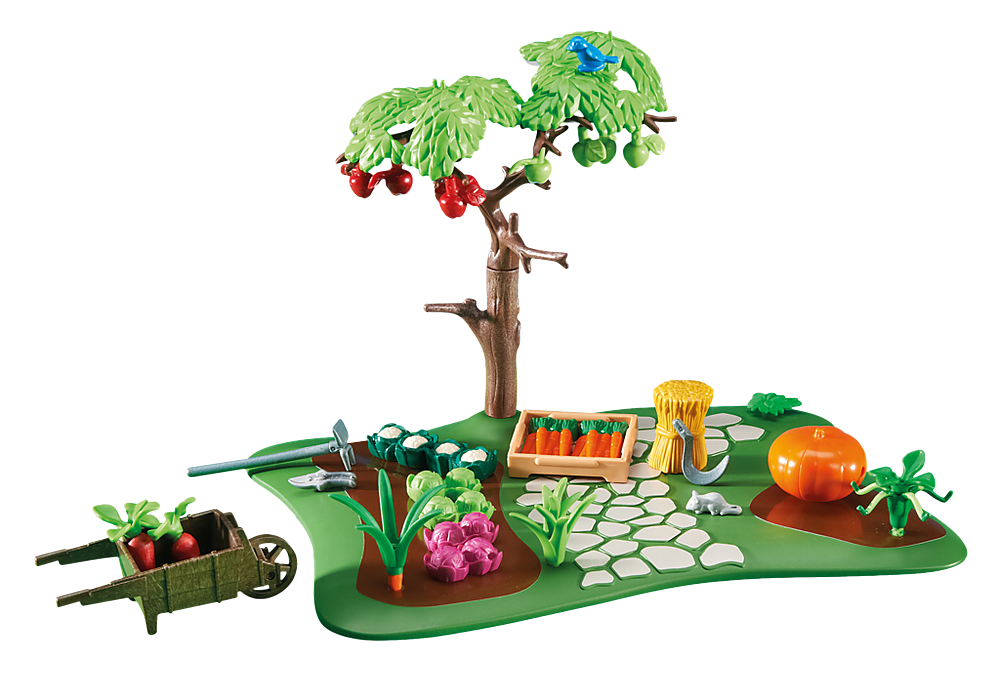
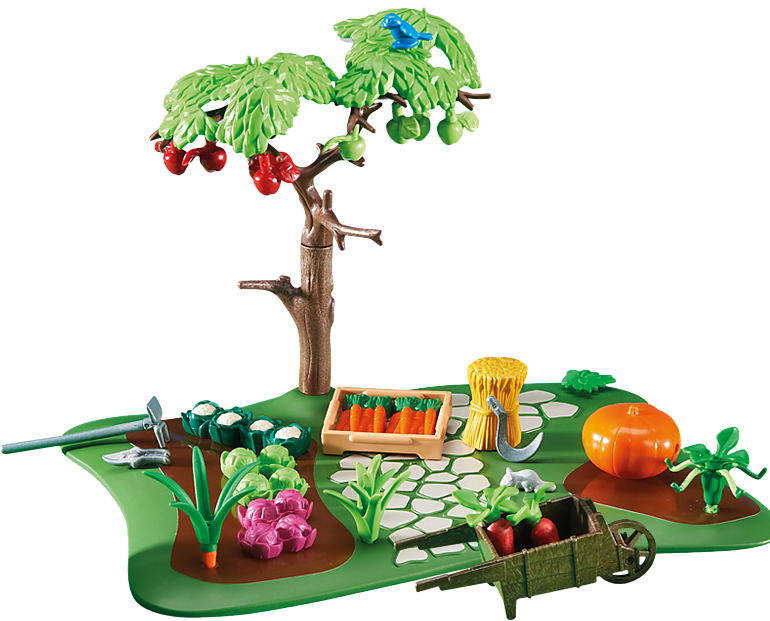
polishing

diff --git a/job/dioptic_alignment.html b/job/dioptic_alignment.html
@@ -33,17 +33,11 @@
 						Martin Schorb, 10.4.2025
 						---
 
-						### Serial Block-face scanning EM
-
-						![img](./img/sbem_01.png)
-
-						---
-
 						### Martin
 
 						| | | |
 						|--|--|--|
-						|![img](img/sax.jpg)|![img](img/rad.jpg)|![img](img/garten.png)|
+						|<img style="display: inline; width: 600px" src="./img/sax.jpg">|![img](img/rad.png)|<img style="display: inline; width: 1100px" src="./img/garten.png">|
 
 						---
 
@@ -88,10 +82,9 @@
 						### Ist-Zustand:
 						- Alignment von: <br>
 						2D Mosaik (10&times;10) 3D Schnitte (~10.000)
-						- von Hand in TrakEM (Fiji) importiert
-						- Dauer Alignment: <br>
-						mehrere Wochen (lokale Workstation)
-						- manuelle Konvertierung (Tage)
+						- <p>von Hand in TrakEM (Fiji) importiert</p>
+						- <p>Dauer Alignment: mehrere Wochen - 💻</p>
+						- <p>manuelle Konvertierung (Tage)</p>
 
 						---
 
@@ -164,7 +157,7 @@
 					 <ul>
 						  <li><p>Python API für Render (API und client Scripts)</p></li>
 						  <li><p class="fragment highlight-current-blue" data-fragment-index="3">Python Paket zur Anwendung</p></li>
-						  <li><p class="fragment highlight-current-blue" data-fragment-index="2">Launcher für lokale, HPC, Spark</p></li>
+						  <li><p class="fragment highlight-current-blue" data-fragment-index="2">Launcher für lokale tasks, HPC, Spark</p></li>
 					 </ul>
 
 				</section>
@@ -260,7 +253,7 @@ from aschema.fields import Int
 
 class TwoNumbers(ArgSchema):
   a = Int(default=2,
-  	  required=True,
+	  required=True,
 	  description='First number (int).')
   b = Int(default=3,
 	  required=True,
@@ -275,9 +268,17 @@ class TwoNumbers(ArgSchema):
 						t1 = Multiply()
 						t1.run()
 							6
+						```
+
+						<!-- .element: class="fragment" -->
+						```Python
 						t2 = Multiply(input_data={'a':5})
 						t2.run()
 							15
+						```
+
+						<!-- .element: class="fragment" -->
+						```Python
 						t3 = Multiply(input_data={'a':"some string"})
 							marshmallow.exceptions.ValidationError: {'a': ['Not a valid integer.']}
 						```
@@ -291,7 +292,7 @@ class TwoNumbers(ArgSchema):
 
 
 
-				<section data-markdown style="width:120%; left:-14% ;font-size:25pt">
+				<section data-markdown style="width:120%; left:-14% ;font-size:24pt">
 					<script type="text/template" >
 					### Kommandozeile
 ```Python
@@ -302,12 +303,13 @@ if __name__ == "__main__":
 
 
 ```ini
-
 $ python argsch_demo.py
 	6
-
+```
+<!-- .element: class="fragment" -->
+```ini
 $ python argsch_demo.py  --h
-usage: argsch_demo.py [-h] [--a A] [--b B] [--input_json INPUT_JSON] [--output_json OUTPUT_JSON] [--log_level LOG_LEVEL]
+usage: argsch_demo.py [-h] [--a A] [--b B] [--input_json INPUT_JSON] [--output_json OUTPUT_JSON]
 
 options:
   -h, --help            show this help message and exit
@@ -319,13 +321,14 @@ TwoNumbers:
                         file path of input json file
   --output_json OUTPUT_JSON
                         file path to output json file
-  --log_level LOG_LEVEL
-                        set the logging level of the module (default=ERROR)
-
-
+```
+<!-- .element: class="fragment" -->
+```ini
 $ python argsch_demo.py --a 4
 	12
-
+```
+<!-- .element: class="fragment" -->
+```ini
 $ echo {\"b\": 5} > params.json
 $ python argsch_demo.py  --input_json params.json
 	10
@@ -335,12 +338,19 @@ $ python argsch_demo.py  --input_json params.json
 
 					</script>
 				</section>
+				<section>
+					<section data-markdown>
+						<textarea data-template>
+							### Vielen Dank
 
-				<section data-markdown>
-					<textarea data-template>
-						### NGFF
-						![img](img/ome-zarr1.webp)
-					</textarea>
+							#### Fragen?
+
+							---
+
+							### NGFF
+							![img](img/ome-zarr1.webp)
+						</textarea>
+					</section>
 				</section>
 
 
